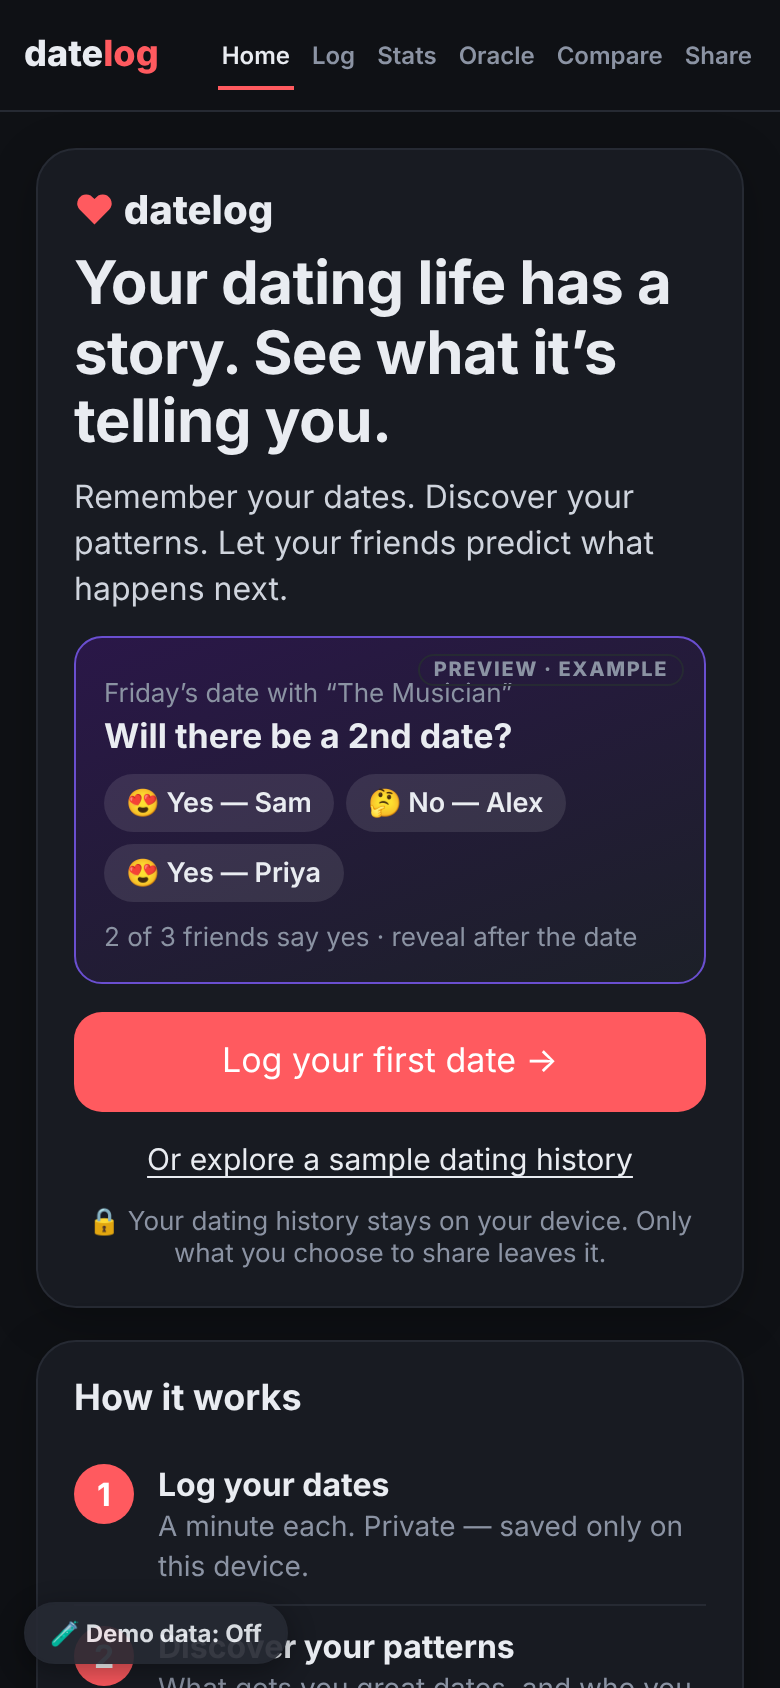
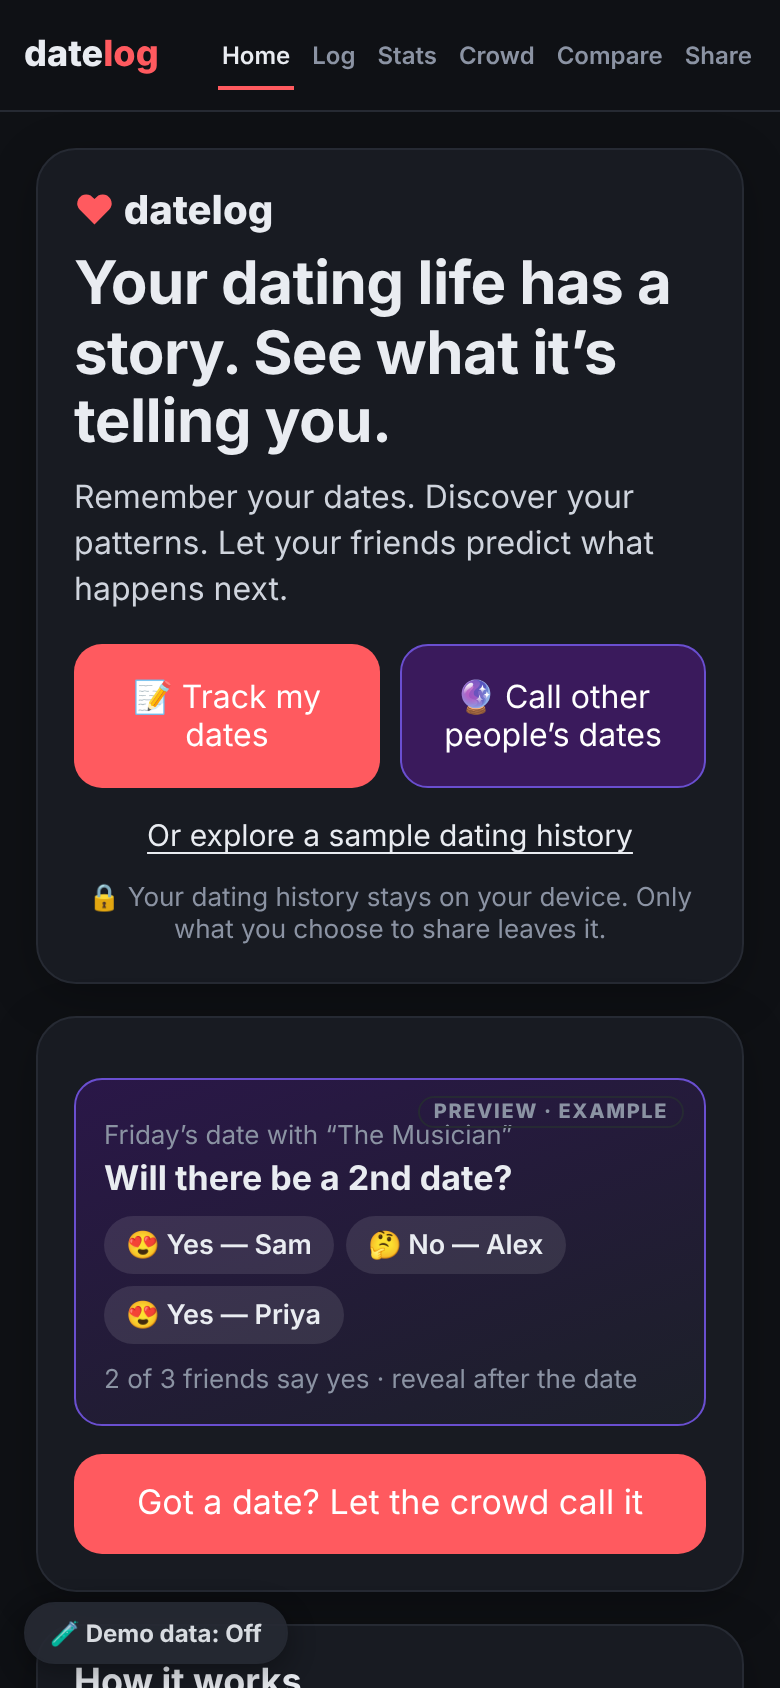
Tests t19 (home live card: posts/empty/error) + t20 (3-way); updated copy expectations; screenshots

diff --git a/tests/t18.js b/tests/t18.js
@@ -19,8 +19,8 @@ MODE='live';P.push({id:'s1',token:'x',nick:'The Architect',date_type:'coffee',ar
 await p.goto(U+'#oracle');await p.reload();await p.waitForTimeout(500);let fd=await p.innerText('#coFeed');
 ok(fd.includes('Coffee in West LA with “The Architect”')&&/Will there be a 2nd date\?/.test(fd),'feed entry for zero-history visitor');ok(/Got a date\? Let the crowd call it/.test(fd),'CTA');
 ok(await p.$$eval('#coFeed input,#coFeed textarea',x=>x.length)==0,'no free-text in feed');await noX(p,'oracle');await p.screenshot({path:S+'oracle-feed.png'});
-await p.click('.co[data-id=s1] .cov[data-v=yes]');await p.waitForTimeout(300);fd=await p.innerText('.co[data-id=s1]');ok(/😍 1 love story · 💀 1/.test(fd)&&/You said 😍 love story/.test(fd),'vote + tallies');
-await p.click('.co[data-id=s1] .cov',{timeout:500}).then(()=>ok(false,'can re-vote'),()=>ok(true,'one vote per post'));
+await p.click('#coFeed .co[data-id=s1] .cov[data-v=yes]');await p.waitForTimeout(300);fd=await p.innerText('#coFeed .co[data-id=s1]');ok(/😍 1 love story · 💀 1/.test(fd)&&/You said 😍 love story/.test(fd),'vote + tallies');
+await p.click('#coFeed .co[data-id=s1] .cov',{timeout:500}).then(()=>ok(false,'can re-vote'),()=>ok(true,'one vote per post'));
 // post a date
 await p.click('#coCta');await p.waitForTimeout(400);ok(await p.evaluate(()=>mode=='pre'&&$('#coPost').checked),'CTA -> upcoming with post ticked');
 await p.fill('[name=nick]','Musician');await p.click('#f .seg[data-n=type] button:text-is("drinks")');await p.click('#f .seg[data-n=excite] button:text-is("4")');await p.fill('[name=where]','Secret Bar');
@@ -33,13 +33,13 @@ await p.fill('#coNick','');await p.click('#saveBtn');await p.waitForTimeout(600)
 ok(post&&post.args.p_days_until==2&&!JSON.stringify(post.args).match(/Secret|20\d\d-|where|note/i)&&post.area=='Silver Lake/Echo Park','posted only allowed fields '+JSON.stringify(post&&post.args));
 const did=await p.evaluate(()=>D.dates.find(d=>d.nick=='Musician').id);ok(await p.evaluate(()=>!!D.dates[0].co.token),'token kept locally');
 for(let i=0;i<3;i++)V.push({post:post.id,voter:String(i).repeat(32),pick:'yes'});V.push({post:post.id,voter:'f'.repeat(32),pick:'no'});
-await p.goto(U+'#oracle');await p.waitForTimeout(400);await p.goto(U+'#log');await p.waitForTimeout(500);ok(/Community: 😍 3 · 💀 1/.test(await p.innerText('#upcoming')),'stranger tallies on date card');
+await p.goto(U+'#oracle');await p.waitForTimeout(400);await p.goto(U+'#log');await p.waitForTimeout(500);ok(/The Crowd: 😍 3 · 💀 1/.test(await p.innerText('#upcoming')),'stranger tallies on date card');
 // stranger post resolves -> credit
-P[0].outcome='yes';await p.goto(U+'#oracle');await p.waitForTimeout(500);fd=await p.innerText('#coFeed');ok(/There was a 2nd date/.test(fd)&&/You called it ✅/.test(fd)&&/accuracy: 1\/1/.test(fd),'result + voter credit + accuracy');
+P[0].outcome='yes';await p.goto(U+'#oracle');await p.waitForTimeout(500);fd=await p.innerText('#coFeed');ok(/There was a 2nd date/.test(fd)&&/You called it ✅/.test(fd)&&/Your calls: 1\/1 right/.test(fd),'result + voter credit + accuracy');
 // own outcome -> reveal friends vs strangers + resolve
 await p.goto(U+'#log');await p.evaluate(i=>openForm(i,'review'),did);await p.click('#f .seg[data-n=went] button:has-text("4")');for(const [n,v] of [['mine','yes'],['theirs','yes'],['second','yes']])await p.click(`#f .seg[data-n=${n}] button:text-is("${v}")`);
 await p.click('#saveBtn');await p.waitForTimeout(1000);ok(await p.evaluate(i=>location.hash=='#verdict='+i,did),'reveal opens for community-only date');
-const v=await p.innerText('#verdictCard');ok(/Friends vs strangers/i.test(v)&&/3\/4/.test(v)&&/crowd called it/.test(v),'friends vs strangers in reveal '+v.replace(/\n/g,' | '));ok(post.outcome=='yes','resolve_community sent');
+const v=await p.innerText('#verdictCard');ok(/Friends vs The Crowd/i.test(v)&&/3\/4/.test(v)&&/crowd called it/.test(v),'friends vs strangers in reveal '+v.replace(/\n/g,' | '));ok(post.outcome=='yes','resolve_community sent');
 await p.waitForSelector('#vImg:not(.hide)');await p.screenshot({path:S+'oracle-reveal.png',fullPage:true});
 await p.click('#vFmt [data-f=st]');await p.waitForTimeout(600);ok(await p.$eval('#vImg',i=>[i.naturalWidth,i.naturalHeight].join('x'))=='1080x1920','story 9:16 verdict');await p.click('#vShare');
 await p.evaluate(()=>scrollTo(0,0));await (await p.$('#vImg')).evaluate(e=>e.scrollIntoView({block:'center'}));await p.screenshot({path:S+'story-card.png'});

diff --git a/tests/t19.js b/tests/t19.js
@@ -1,0 +1,24 @@
+// Home: two paths + live Crowd card (posts / empty / error)
+const {run,U,S}=require('./lib');let MODE='posts';const V=[];
+const P=[{id:'a1',nick:'The Architect',date_type:'coffee',area:'West LA',day_label:'Friday',met:'Hinge',excite:4},{id:'a2',nick:'Poet',date_type:'drinks',area:'Hollywood',day_label:'tomorrow',met:'Bumble',excite:3},{id:'a3',nick:'Done',date_type:'dinner',area:'Valley',day_label:'Monday',met:'Hinge',excite:3,outcome:'yes'}];
+const sb=async r=>{const u=r.request().url(),b=JSON.parse(r.request().postData()||'{}'),fn=u.split('/rpc/')[1];const J=x=>r.fulfill({status:200,contentType:'application/json',body:JSON.stringify(x)});
+ if(fn=='list_community'){if(MODE=='error')return r.fulfill({status:500,body:'{}'});if(MODE=='empty')return J([]);
+  return J(P.map(p=>({...p,outcome:p.outcome||null,yes_votes:V.filter(v=>v.post==p.id&&v.pick=='yes').length+2,no_votes:V.filter(v=>v.post==p.id&&v.pick=='no').length+1,my_pick:(V.find(v=>v.post==p.id)||{}).pick||null})))}
+ if(fn=='vote_community'){V.push({post:b.p_post,pick:b.p_pick});return J({yes:V.filter(v=>v.post==b.p_post&&v.pick=='yes').length+2,no:V.filter(v=>v.post==b.p_post&&v.pick=='no').length+1})}
+ r.fulfill({status:404,body:'{}'})};
+run(async({p,ok,noX})=>{
+await p.goto(U+'#home');await p.reload();await p.waitForTimeout(600);const h=await p.innerText('#hero');
+ok(/Track my dates/.test(h)&&/Call other people’s dates/.test(h)&&/Or explore a sample dating history/.test(h)&&/stays on your device/.test(h),'two paths + link + privacy');
+const bx=await p.$$eval('.two .btn',x=>x.map(e=>e.getBoundingClientRect()).map(r=>[Math.round(r.top),Math.round(r.height)]));ok(bx.length==2&&bx[0][0]==bx[1][0]&&bx.every(b=>b[1]>=60),'side by side, big '+JSON.stringify(bx));
+let hl=await p.innerText('#homeLive');ok(/Live from The Crowd/i.test(hl)&&hl.includes('Coffee in West LA with “The Architect” · Friday')&&/Will there be a 2nd date\?/.test(hl)&&!/example/i.test(hl),'live card from list_community');
+await noX(p,'home live');await p.screenshot({path:S+'home-two-paths.png'});
+await p.click('#homeLive .cov[data-v=yes]');await p.waitForTimeout(300);hl=await p.innerText('#homeLive');ok(V.length==1&&V[0].post=='a1'&&/😍 3 love story · 💀 1/.test(hl)&&/Call another/.test(hl)&&/See all in The Crowd/.test(hl),'votes in place + tallies');
+await p.click('#hlNext');hl=await p.innerText('#homeLive');ok(hl.includes('“Poet”'),'call another -> next unvoted');ok(!hl.includes('Done'),'resolved posts skipped');
+await p.click('#homeLive .cov[data-v=no]');await p.waitForTimeout(300);await p.click('#hlNext');ok(/called every live date/.test(await p.innerText('#homeLive')),'all called');
+await p.goto(U+'#home');await p.click('#heroOracle');await p.waitForTimeout(400);ok(await p.evaluate(()=>location.hash=='#oracle')&&/Wisdom of the crowd/.test(await p.innerText('#coFeed'))&&/Your calls: /.test(await p.innerText('#coFeed'))===false||true,'crowd tab');
+ok(/Wisdom of the crowd: strangers call it, you see if they were right/.test(await p.innerText('#coFeed')),'crowd subtitle');ok(await p.innerText('nav a[href="#oracle"]')=='Crowd','tab label Crowd');
+await p.goto(U+'#home');await p.click('#heroGo');await p.waitForTimeout(500);ok(await p.evaluate(()=>location.hash=='#log'&&document.activeElement.name=='nick'),'track my dates -> quick log');
+for(const m of ['empty','error']){MODE=m;await p.goto(U+'#home');await p.reload();await p.waitForTimeout(600);hl=await p.innerText('#homeLive');ok(/PREVIEW · EXAMPLE/i.test(hl)&&/Got a date\? Let the crowd call it/.test(hl)&&!/Live from/i.test(hl),m+' -> labeled preview fallback');if(m=='empty'){await noX(p,'home empty');await p.screenshot({path:S+'home-two-paths-empty.png'})}}
+await p.click('#hlCta');await p.waitForTimeout(400);ok(await p.evaluate(()=>mode=='pre'),'fallback CTA -> upcoming');
+ok(!/Oracle/.test(await p.evaluate(()=>document.body.innerText)),'no visible "Oracle"');
+},{sb});

diff --git a/tests/t20.js b/tests/t20.js
@@ -1,0 +1,21 @@
+// You vs Friends vs The Crowd: private own call, 3-way reveal + image, Who calls it best
+const {run,U,S}=require('./lib');run(async({p,ok,noX})=>{
+await p.goto(U+'#home');ok(/Make your own call, see if your friends — and the wisdom of the crowd — know better/.test(await p.innerText('#how')),'explainer copy');
+await p.goto(U+'#log');await p.click('#modeSeg [data-m=pre]');ok(await p.isVisible('#f .seg[data-n=myCall]'),'your call on upcoming form');
+await p.fill('[name=nick]','Musician');await p.click('#f .seg[data-n=type] button:text-is("drinks")');await p.click('#f .seg[data-n=myCall] button:has-text("One-date wonder")');
+const dd=await p.evaluate(()=>{const t=new Date(Date.now()+2*864e5);return new Date(t-t.getTimezoneOffset()*6e4).toISOString().slice(0,10)});await p.fill('[name=date]',dd);await p.click('#saveBtn');await p.waitForTimeout(200);
+let d=await p.evaluate(()=>D.dates[0]);ok(/One-date/.test(d.myCall),'stored locally');
+ok(await p.evaluate(()=>{const a=JSON.stringify(ask(D.dates[0]));return !/One-date|myCall|wonder/.test(a)}),'never in friend link');
+ok(await p.evaluate(()=>{$('#coPost').checked=true;$('#coNick').value='';const a=JSON.stringify(coArgs({...D.dates[0]}));return !/One-date|myCall/.test(a)}),'never in crowd post');
+await p.evaluate(()=>{const d=D.dates[0];d.preds=[{f:'Sam',p2:'yes',pw:4,pm:'both',take:''},{f:'Ana',p2:'yes',pw:null,pm:null,take:''},{f:'Kai',p2:'no',pw:2,pm:'you',take:''}];d.co={id:'x',token:'t',yes:1,no:3};save();render()});
+await p.evaluate(id=>openForm(id,'review'),d.id);ok(await p.$eval('#f .seg[data-n=myCall] .on',e=>e.textContent).then(t=>/One-date/.test(t)),'own call survives review');
+await p.click('#f .seg[data-n=went] button:has-text("4")');for(const [n,v] of [['mine','yes'],['theirs','yes'],['second','yes']])await p.click(`#f .seg[data-n=${n}] button:text-is("${v}")`);await p.click('#saveBtn');await p.waitForTimeout(900);
+const v=await p.innerText('#verdictCard');console.log(v.slice(0,500));
+ok(/You vs Friends vs The Crowd/i.test(v)&&/Your friends knew you better than you did/.test(v),'3-way headline from real results');
+ok(/You[\s\S]*one-date wonder[\s\S]*wrong/.test(v)&&/Friends[\s\S]*2 of 3 said love story[\s\S]*right/.test(v)&&/The Crowd[\s\S]*25% said love story[\s\S]*wrong/.test(v),'three rows right/wrong');
+ok(await p.evaluate(()=>JSON.stringify(VS._rows.rows).includes('Your friends knew you better')&&/You ❌ · 👯 Friends ✅ · 🌍 The Crowd ❌/.test(JSON.stringify(VS._rows.rows))),'on verdict image');
+await p.waitForSelector('#vImg:not(.hide)');await noX(p,'reveal');await (await p.$('.tw')).evaluate(e=>{e.scrollIntoView();scrollBy(0,-120)});await p.screenshot({path:S+'reveal-3way.png'});
+await p.goto(U+'#dash');ok(await p.innerText('#whoBest')=='','who-calls-best hidden below 2 dates');
+await p.evaluate(()=>{D.dates.push({id:77,status:'done',date:'2026-09-01',time:'',nick:'Chef',met:'Hinge',type:'dinner',went:2,mine:'no',theirs:'no',second:'no',myCall:'💀 One-date wonder',preds:[{f:'Sam',p2:'no'}],draw:[],hoping:[],concerns:[],concernsRight:{},why:[],they:[],note:''});save();render()});
+const w=await p.innerText('#whoBest');console.log(w);ok(/Who calls it best/.test(w)&&/You[\s\S]*50%[\s\S]*1\/2/.test(w)&&/Friends[\s\S]*75%[\s\S]*3\/4/.test(w)&&/Crowd[\s\S]*0%[\s\S]*0\/1/.test(w)&&/based on 2 dates/.test(w),'who calls it best');
+});

diff --git a/tests/t17.js b/tests/t17.js
@@ -2,9 +2,9 @@
 const {run,U,S,IMG}=require('./lib');const G=[];
 run(async({p,pg,ok,noX})=>{
 await p.goto(U+'#home');await p.reload();await p.waitForTimeout(300);
-const h=await p.innerText('#hero');ok(h.includes('Your dating life has a story. See what it’s telling you.'),'headline');ok(h.includes('Let your friends predict what happens next'),'subline');ok(/PREVIEW · EXAMPLE/i.test(h)&&h.includes('“The Musician”')&&h.includes('Yes — Sam')&&h.includes('No — Alex'),'preview card labeled');ok(h.includes('Or explore a sample dating history'),'demo link');
+const h=await p.innerText('#hero');ok(h.includes('Your dating life has a story. See what it’s telling you.'),'headline');ok(h.includes('Let your friends predict what happens next'),'subline');const hl=await p.innerText('#homeLive');ok(/PREVIEW · EXAMPLE/i.test(hl)&&hl.includes('“The Musician”')&&hl.includes('Yes — Sam')&&hl.includes('No — Alex'),'fallback preview card labeled');ok(h.includes('Or explore a sample dating history'),'demo link');
 ok(/Log your dates[\s\S]*Discover your patterns[\s\S]*Let your friends call it/.test(await p.innerText('#how'))&&/optional/.test(await p.innerText('#how')),'3-step explainer');
-ok(await p.evaluate(()=>document.querySelector('#hero').nextElementSibling.id=='how'),'explainer directly under hero');
+ok(await p.evaluate(()=>document.querySelector('#hero').nextElementSibling.id=='homeLive'&&document.querySelector('#homeLive').nextElementSibling.id=='how'),'explainer directly under hero');
 ok(/Remember your last three dates\?/.test(await p.innerText('#homeNudge')),'backfill nudge');
 ok(await p.$eval('#heroGo',e=>e.getBoundingClientRect().height)>=46,'big CTA');await noX(p,'home');await p.screenshot({path:S+'review-home.png'});
 await p.click('#homeAsk');await p.waitForTimeout(400);await p.fill('[name=nick]','Musician');await p.click('#f .seg[data-n=type] button:text-is("drinks")');await p.click('#f .seg[data-n=excite] button:text-is("5")');

diff --git a/tests/t14.js b/tests/t14.js
@@ -1,7 +1,7 @@
 // home page, CTAs, details always open, no hero on log
 const {run,U,S}=require('./lib');run(async({p,ok,noX})=>{
 await p.goto(U);await p.waitForTimeout(300);ok(await p.isVisible('#hero'),'hero visible first time');ok(/stays on your device\. Only what you choose to share leaves it/.test(await p.innerText('#hero')),'privacy line');
-for(const t of ['What actually makes a good date','Expectations vs. reality','Make your friends call it','Sam','Oracle','Way off','13%','Expected split','Share only if you want to','Did you know?'])ok((await p.innerText('#v-home')).includes(t),'home has '+t);
+for(const t of ['What actually makes a good date','Expectations vs. reality','Make your friends call it','Sam','Best caller','Way off','13%','Expected split','Share only if you want to','Did you know?'])ok((await p.innerText('#v-home')).includes(t),'home has '+t);
 await noX(p,'home');await p.screenshot({path:S+'home-1.png'});
 await p.click('#homeAsk');await p.waitForTimeout(400);ok(await p.evaluate(()=>location.hash=='#log'&&mode=='pre'),'ask CTA -> upcoming');
 await p.goto(U+'#home');await p.click('#heroGo');await p.waitForTimeout(700);ok(await p.evaluate(()=>document.activeElement.name)=='nick','scrolls to quick log');
